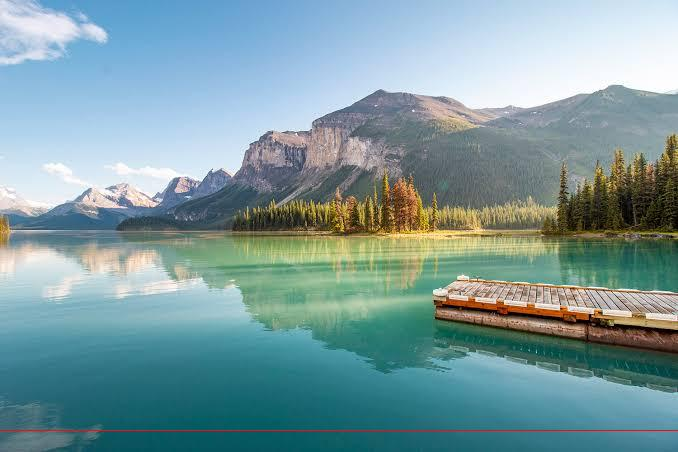
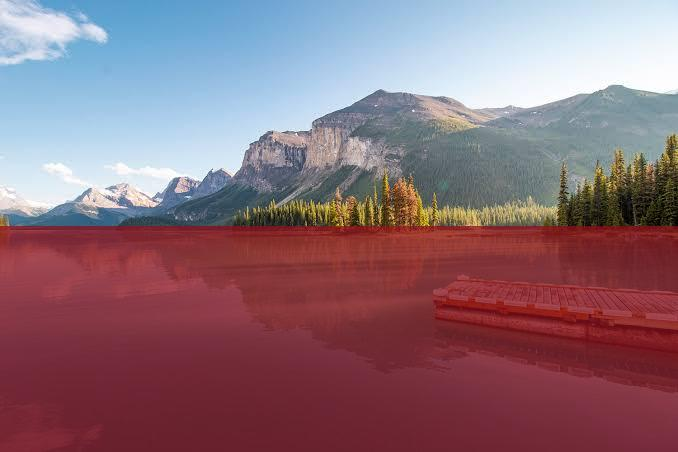
wine

diff --git a/main.py b/main.py
@@ -2,9 +2,11 @@ from PIL import Image
 
 im=Image.open("images.jpg")
 #im.show()
-
+alpha = 0.25
 for i in range(im.size[0]):
-    im.putpixel((i,430),(250,10,10))
+    for j in range(im.size[1]//2, im.size[1]):
+        r, g, b = im.getpixel((i,j))
+        im.putpixel((i,j),(int(138*(1-alpha)+r*alpha), int(16*(1-alpha)+g*alpha), int(30*(1-alpha)+b*alpha)))
 
 im.save("images_modified.jpg")
 im.show()
